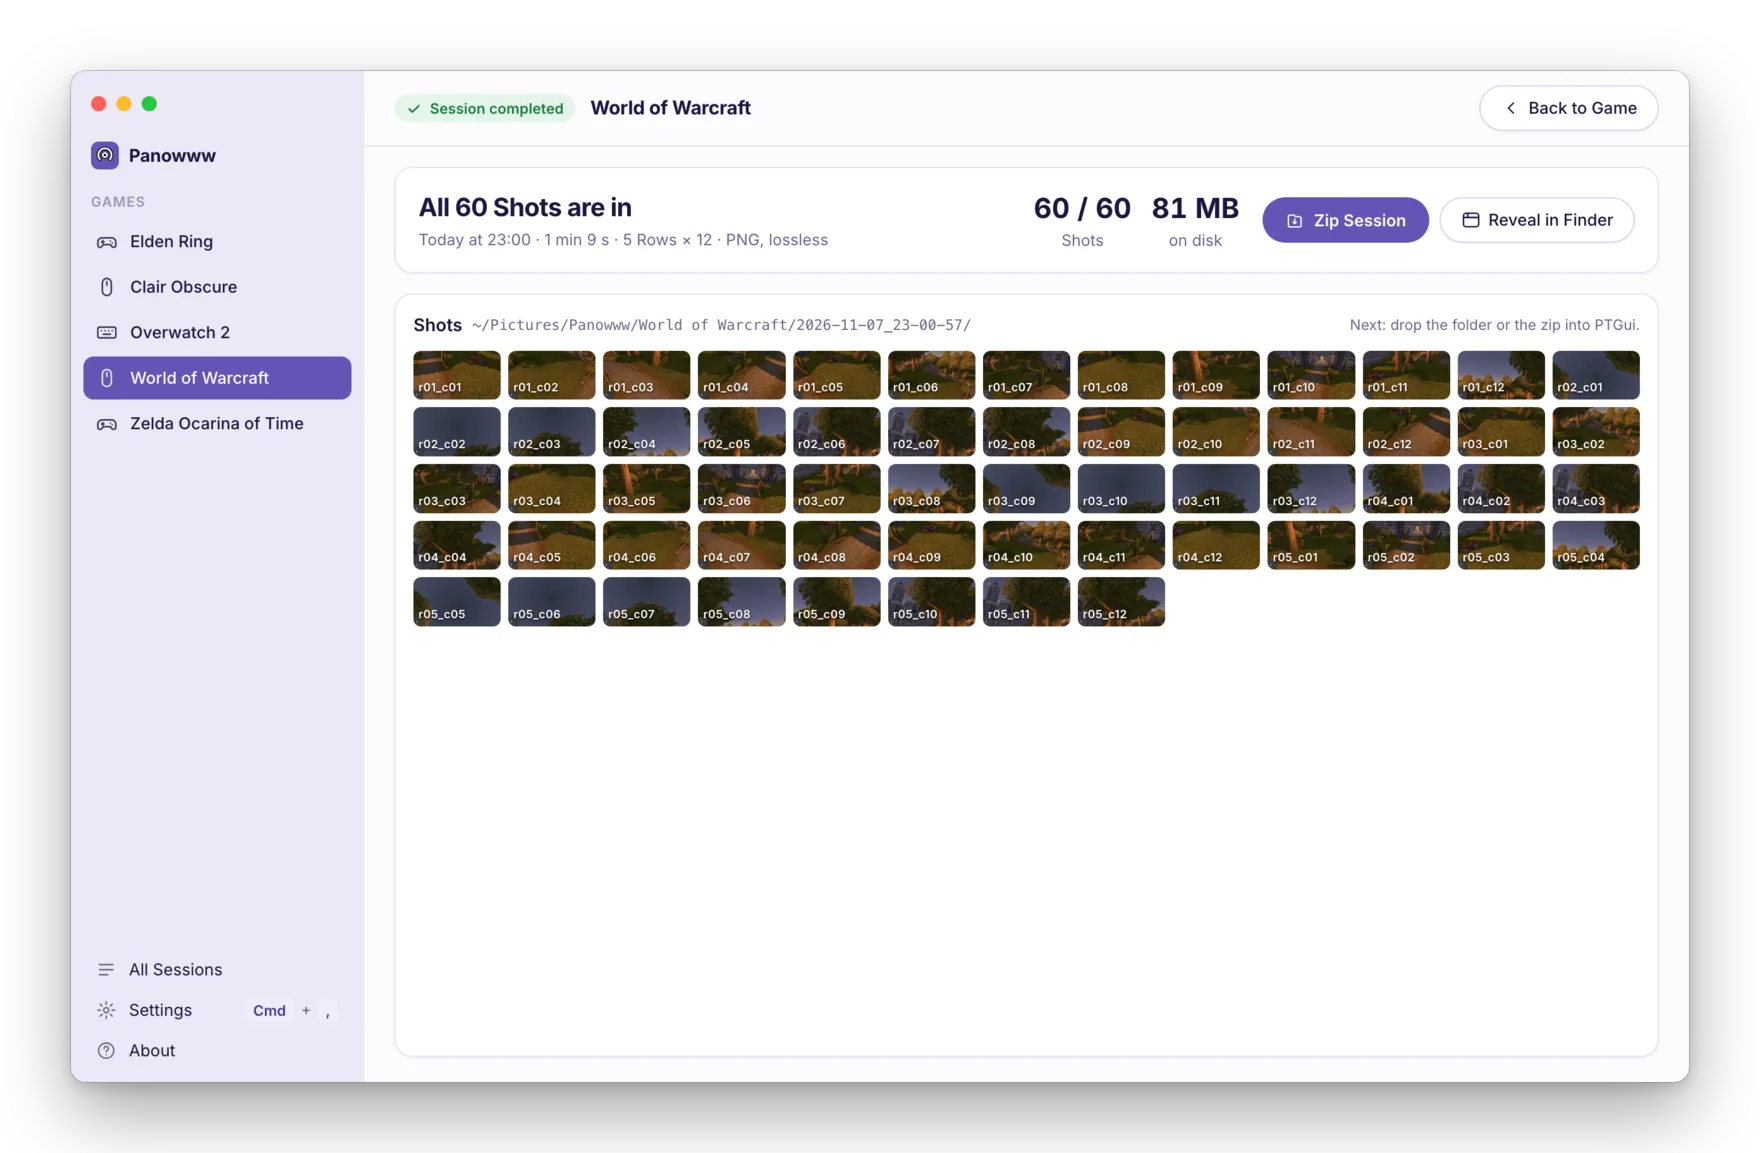
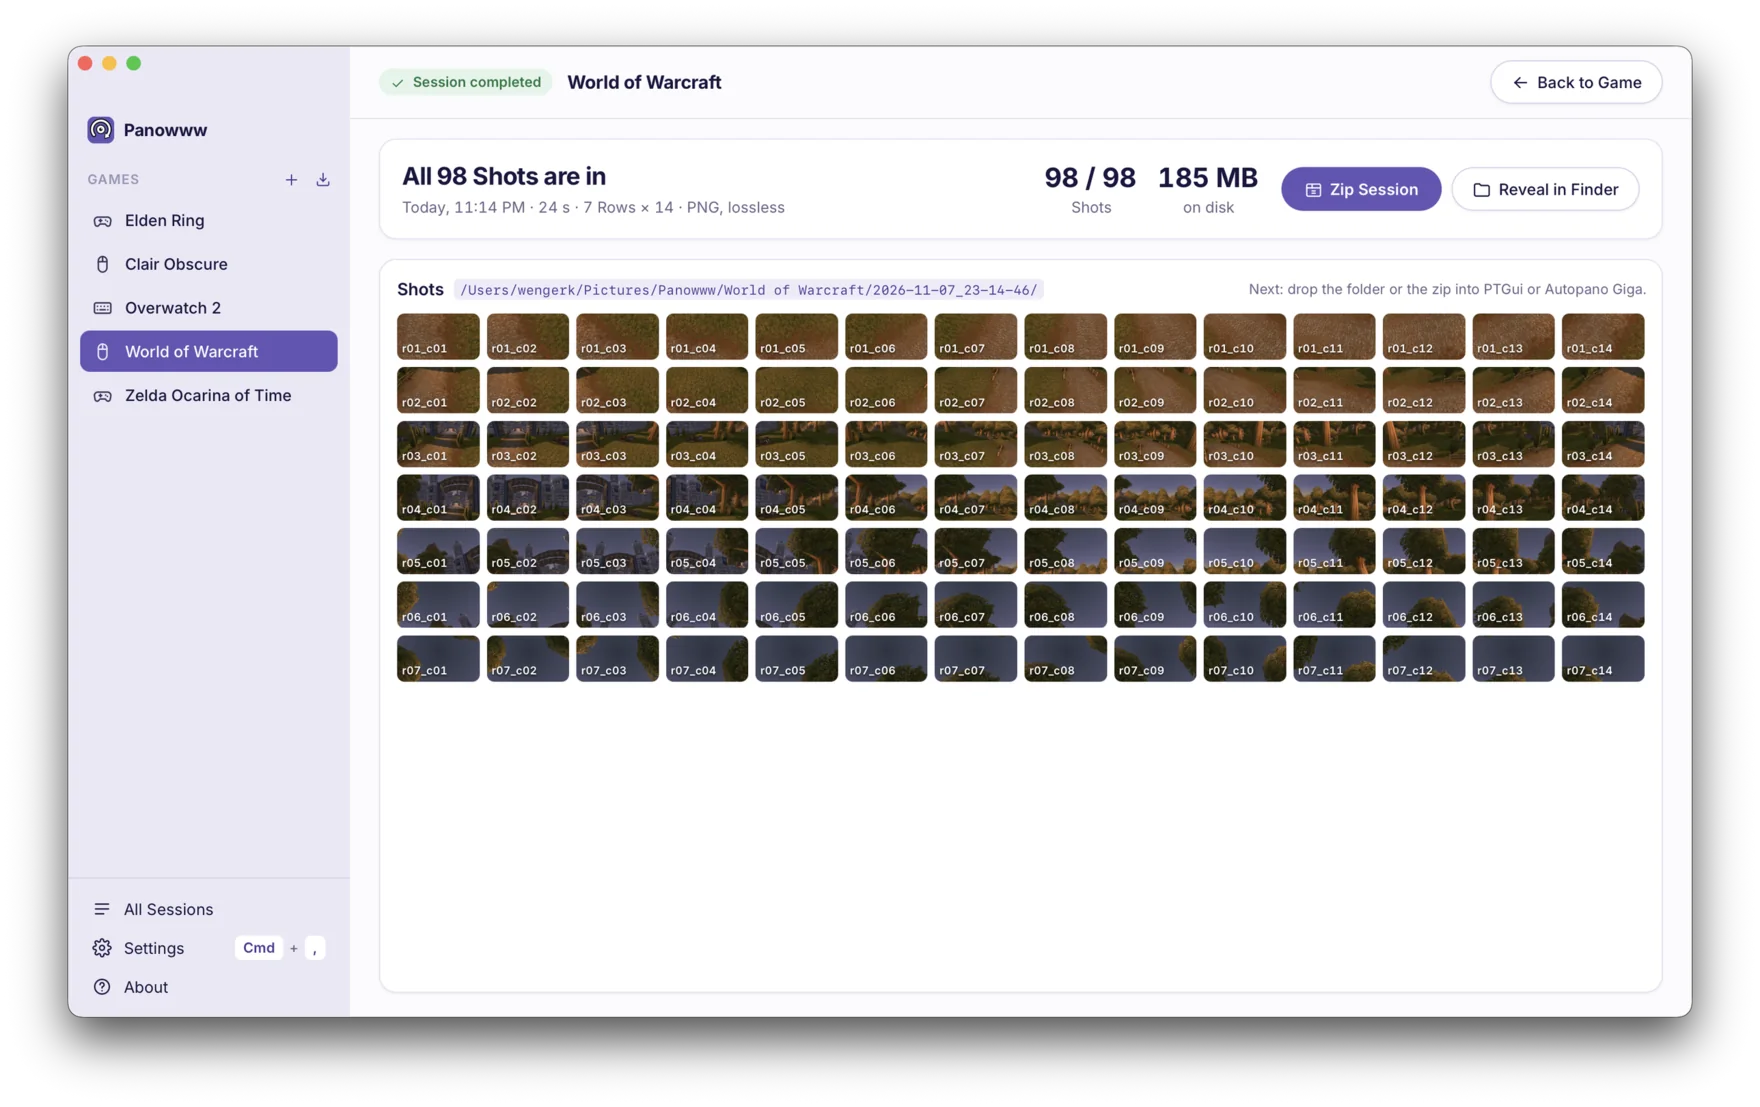
readme: images from the World of Warcraft Session, 7 Rows × 14

Changed region(s): [[0.0312, 0.0307, 0.9688, 0.9828], [0.2188, 0.1536, 0.4688, 0.215]]

diff --git a/docs/readme/README.md b/docs/readme/README.md
@@ -8,10 +8,10 @@ magick shot.png -resize 1760x\> -strip tmp.png && cwebp -q 84 -alpha_q 100 -m 6 
 
 | File | What | Source |
 |---|---|---|
+| `hero.svg` | Animated hero: Capture zone, Session, stitched panorama | built locally from the app captures and the Session's Shots |
 | `download-macos.svg`, `download-windows.svg` | Download buttons under the header | drawn by hand |
-| `setup.webp` | Game Setup, a mouse Game | app, CleanShot window capture |
+| `setup.webp` | Game Setup, World of Warcraft, zone set | app, CleanShot window capture |
 | `capture-zone.webp` | Capture zone picker over World of Warcraft | app, full-screen capture |
-| `session.webp` | Session running (also the hero until issue 27) | design board `B-SessionRunning` |
-| `session-end.webp` | Session completed | design board `B-SessionEnd` |
+| `session.webp` | Session running | design board `B-SessionRunning` with the real Shots |
+| `session-end.webp` | Session completed | app, CleanShot window capture |
 
-The two Session images are the direction-B boards of `prototype/visual-design`, rendered in headless Chrome with the canvas runtime stubbed, the sample Games and Shots swapped for the human's Games and real World of Warcraft Shots. Retake them from the app once a full clean Session exists.
